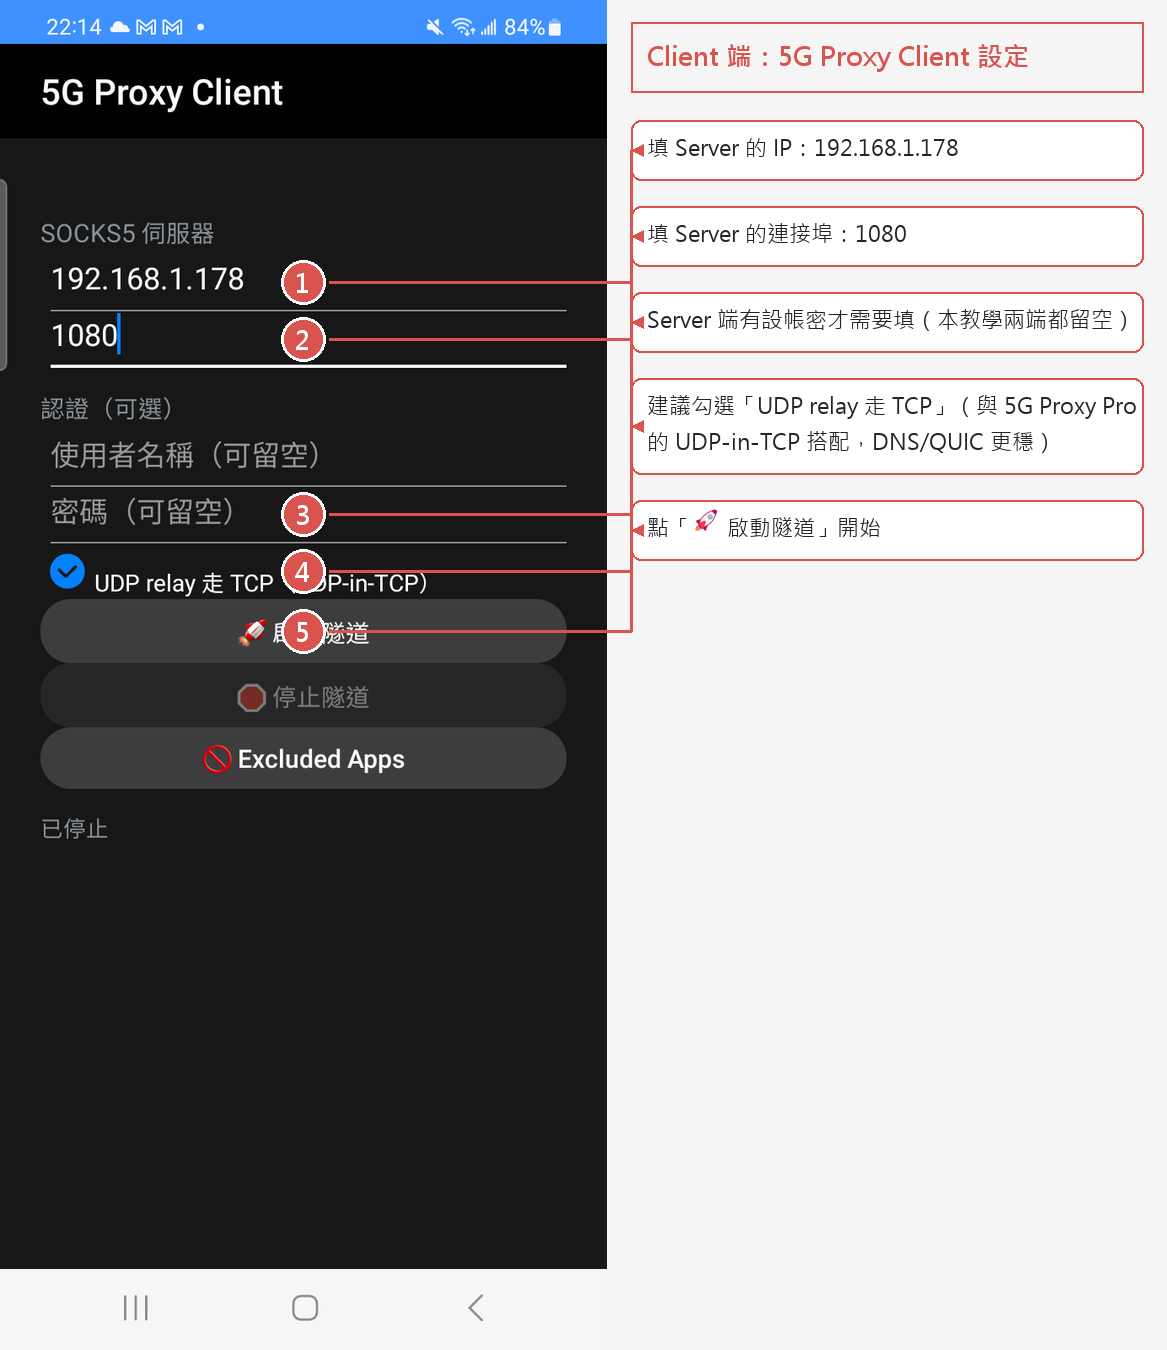
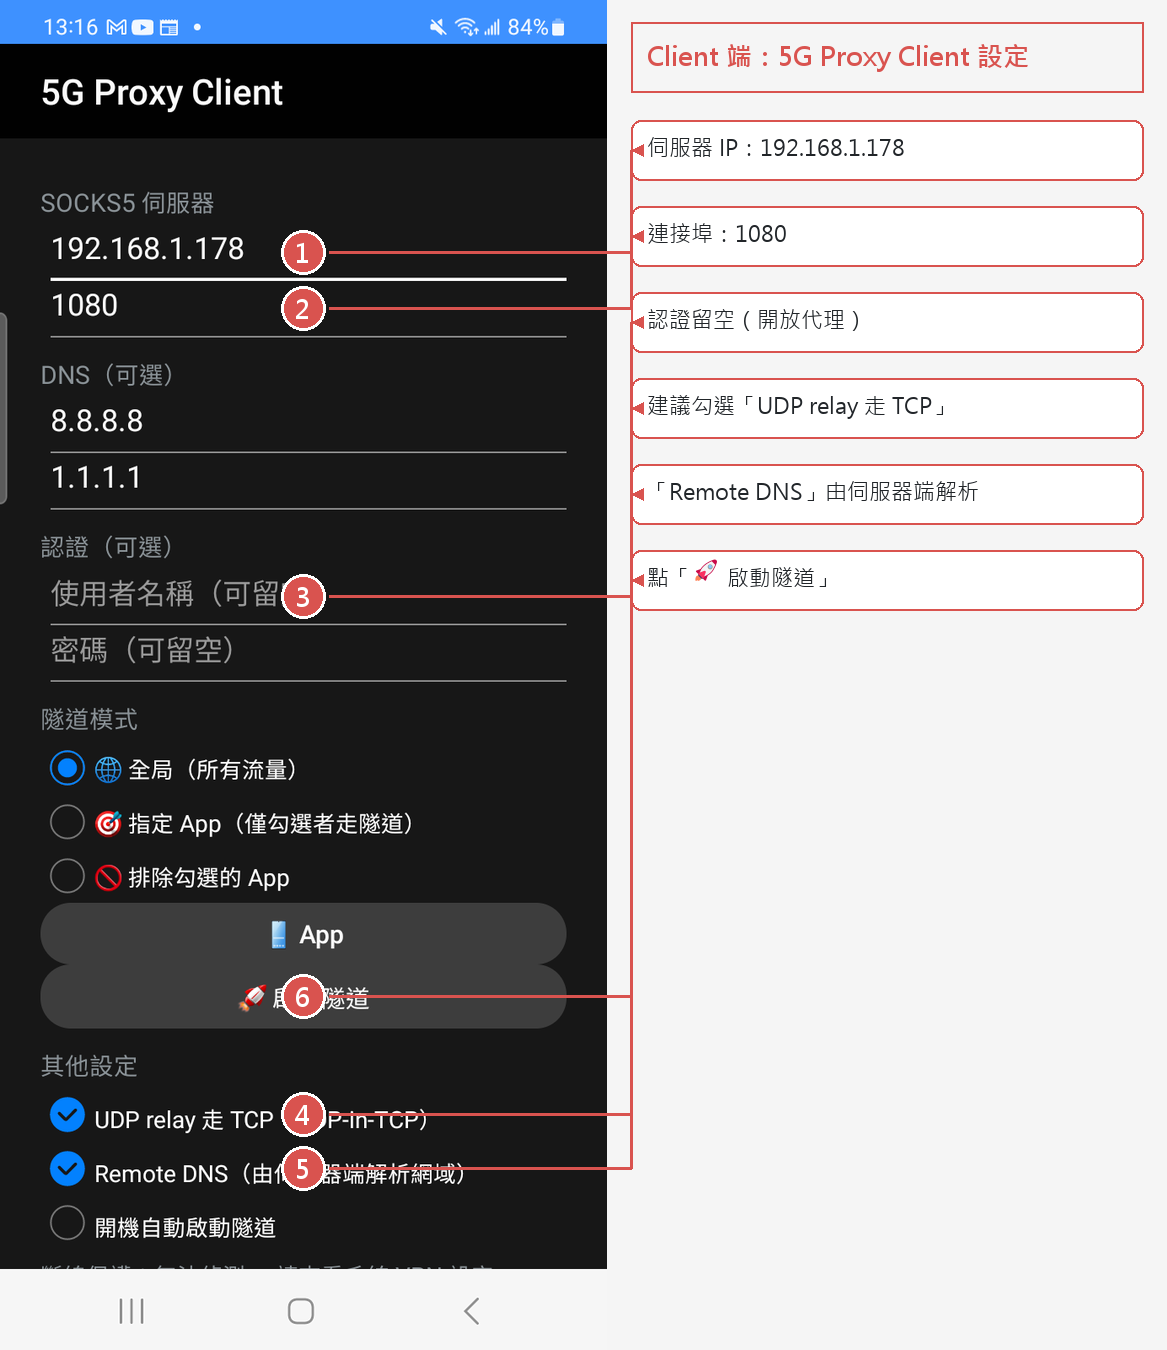
docs: update tutorial + screenshots for Pro 1.6.3 / Client 1.5.1

diff --git a/docs/annotate_shots.py b/docs/annotate_shots.py
@@ -29,8 +29,6 @@ WHITE = (255, 255, 255)
 DARK = (33, 37, 41)
 STRIP_BG = (250, 250, 250)
 
-# token 化：CJK/全形字元一個一個；連續英數（含 . : / ( ) + - _）不切斷；
-# 空白可斷行；其餘（含 emoji）單一字元
 TOKEN_RE = re.compile(
     r"[\u3000-\u303f\u3040-\u30ff\u3400-\u4dbf\u4e00-\u9fff\uff00-\uffef]"
     r"|[A-Za-z0-9][A-Za-z0-9_.:/()+\-]*"
@@ -47,10 +45,9 @@ def is_emoji(ch):
 
 
 def draw_mixed(d, xy, text, font, ef):
-    """逐段繪製：emoji 用彩色 emoji 字型，其餘用中文字型"""
     x, y = xy
     seg = ""
-    mode = None  # None=一般, 'e'=emoji
+    mode = None
     for ch in text:
         m = "e" if is_emoji(ch) else None
         if m != mode and seg:
@@ -72,7 +69,6 @@ def draw_mixed(d, xy, text, font, ef):
 
 
 def wrap_text(text, max_w, font, ef):
-    """依像素寬度換行；token 不可被切斷；空格優先作為斷點"""
     tokens = TOKEN_RE.findall(text)
     lines, cur, cur_w = [], "", 0.0
     for tok in tokens:
@@ -96,7 +92,6 @@ def wrap_text(text, max_w, font, ef):
 
 
 def annotate(src, dst, items, scale_h=1350, strip_w=560, title=None):
-    """items: list of (num, img_x, img_y, text)"""
     im = Image.open(src).convert("RGB")
     w, h = im.size
     scale = scale_h / h
@@ -142,7 +137,6 @@ def annotate(src, dst, items, scale_h=1350, strip_w=560, title=None):
         for ln in lines:
             draw_mixed(d, (bx + 16, ty), ln, fr, ef)
             ty += line_h
-        # 折線箭頭：號碼圓 → 框左側
         sx, sy = bx, by + bh // 2
         d.line([cx + r + 4, cy, (sx + bx) // 2, cy, (sx + bx) // 2, sy, sx, sy],
                fill=RED, width=3)
@@ -151,21 +145,45 @@ def annotate(src, dst, items, scale_h=1350, strip_w=560, title=None):
 
     canvas.save(dst)
     print(("OVERFLOW!" if overflow else "OK   "), os.path.basename(dst),
-          canvas.size, "| lines:", [len(wrap_text(t, box_w, fr, ef)) for _, _, _, t in items])
+          canvas.size)
 
 
 def main():
     S = SHOTS
 
+    # --- Server 端 ---
+
     annotate(
         os.path.join(S, "server_initial.png"),
         os.path.join(S, "server_initial_annotated.png"),
         [
-            (1, 735, 777, "檢查「代理端口」，改成要對外提供的埠（預設 1080）"),
-            (2, 712, 946, "帳號密碼留空 = 開放代理；兩欄都填才會啟用認證"),
-            (3, 610, 1299, "點「🚀 一鍵開啟 5G 代理」啟動服務"),
+            (1, 735, 777, "代理端口（預設 1080）"),
+            (2, 706, 956, "使用者/密碼留空 = 開放代理；兩欄都填才啟用認證"),
+            (3, 610, 1299, "點「🚀 一鍵開啟 5G 代理」"),
+            (4, 610, 2075, "新增「📈 流量」即時統計（上/下傳速率與總量）"),
         ],
         title="Server 端：5G Proxy Pro 啟動",
+    )
+
+    annotate(
+        os.path.join(S, "server_battery.png"),
+        os.path.join(S, "server_battery_annotated.png"),
+        [
+            (1, 609, 926, "小米/POCO 用戶的電池最佳化提醒"),
+            (2, 253, 1748, "「仍然繼續」= 不加白名單也照樣啟動"),
+            (3, 966, 1748, "「前往設定」= 關閉「5G 智慧省電」以穩定鎖定 5G"),
+        ],
+        title="Server 端：電池最佳化提醒",
+    )
+
+    annotate(
+        os.path.join(S, "server_notifperm.png"),
+        os.path.join(S, "server_notifperm_annotated.png"),
+        [
+            (1, 609, 1894, "Android 13+ 首次啟動會要求通知權限"),
+            (2, 609, 2164, "點「允許」前景服務通知才能顯示"),
+        ],
+        title="Server 端：通知權限",
     )
 
     annotate(
@@ -173,22 +191,45 @@ def main():
         os.path.join(S, "server_running_annotated.png"),
         [
             (1, 610, 593, "✅ 5G Proxy Running = 代理已運行"),
-            (2, 610, 1497, "記下「Wi-Fi 代理」的 IP:Port → 192.168.1.178:1080（Client 要輸入這個）"),
-            (3, 610, 1770, "「5G 行動 IP」= 49.215.85.39（驗證用：其他裝置出口 IP 應等於它）"),
-            (4, 610, 1293, "停止代理請按「🛑 停止代理服務」"),
+            (2, 610, 1624, "記下「Wi-Fi 代理」IP:Port → 192.168.1.178:1080"),
+            (3, 610, 1897, "「5G 行動 IP」= 出口 IP（其他裝置走代理後應等於它）"),
+            (4, 610, 2069, "即時流量統計（上/下傳速率與總量）"),
+            (5, 610, 1293, "「🛑 停止代理服務」關閉"),
         ],
         title="Server 端：運行中，取得 IP:Port",
+    )
+
+    annotate(
+        os.path.join(S, "server_notification.png"),
+        os.path.join(S, "server_notification_annotated.png"),
+        [
+            (1, 603, 977, "「已鎖定 5G - 監聽 Port 1080」= 已鎖定 5G 並監聽"),
+        ],
+        title="Server 端：前景服務通知",
+    )
+
+    # --- Client 端 ---
+
+    annotate(
+        os.path.join(S, "client_notifperm.png"),
+        os.path.join(S, "client_notifperm_annotated.png"),
+        [
+            (1, 360, 1195, "Android 13+ 首次啟動要求通知權限"),
+            (2, 360, 1284, "點「允許」"),
+        ],
+        title="Client 端：通知權限",
     )
 
     annotate(
         os.path.join(S, "client_filled.png"),
         os.path.join(S, "client_filled_annotated.png"),
         [
-            (1, 360, 335, "填 Server 的 IP：192.168.1.178"),
-            (2, 360, 402, "填 Server 的連接埠：1080"),
-            (3, 360, 610, "Server 端有設帳密才需要填（本教學兩端都留空）"),
-            (4, 360, 677, "建議勾選「UDP relay 走 TCP」（與 5G Proxy Pro 的 UDP-in-TCP 搭配，DNS/QUIC 更穩）"),
-            (5, 360, 748, "點「🚀 啟動隧道」開始"),
+            (1, 360, 299, "伺服器 IP：192.168.1.178"),
+            (2, 360, 366, "連接埠：1080"),
+            (3, 360, 707, "認證留空（開放代理）"),
+            (4, 360, 1321, "建議勾選「UDP relay 走 TCP」"),
+            (5, 360, 1385, "「Remote DNS」由伺服器端解析"),
+            (6, 360, 1181, "點「🚀 啟動隧道」"),
         ],
         title="Client 端：5G Proxy Client 設定",
     )
@@ -197,8 +238,8 @@ def main():
         os.path.join(S, "client_vpn.png"),
         os.path.join(S, "client_vpn_annotated.png"),
         [
-            (1, 360, 780, "第一次啟動會出現系統「連線要求」對話框"),
-            (2, 506, 1396, "點「確定」允許 VPN（拒絕則無法建立隧道）"),
+            (1, 360, 980, "首次啟動出現系統「連線要求」"),
+            (2, 506, 1396, "點「確定」允許 VPN"),
         ],
         title="Client 端：VPN 授權",
     )
@@ -207,29 +248,10 @@ def main():
         os.path.join(S, "client_running.png"),
         os.path.join(S, "client_running_annotated.png"),
         [
-            (1, 360, 968, "「✅ 隧道已啟用 (192.168.1.178:1080)」= 成功"),
-            (2, 360, 90, "狀態列出現鑰匙圖示（VPN 作用中）"),
-            (3, 360, 824, "「🛑 停止隧道」可隨時關閉"),
+            (1, 360, 1181, "按鈕變為「🛑 停止隧道」= 隧道已啟用"),
+            (2, 360, 1321, "執行中設定欄位鎖定"),
         ],
         title="Client 端：隧道已啟用",
-    )
-
-    annotate(
-        os.path.join(S, "client_notification.png"),
-        os.path.join(S, "client_notification_annotated.png"),
-        [
-            (1, 360, 420, "通知列常駐「5G Proxy Client / Tunnel active」前景服務通知"),
-        ],
-        title="Client 端：前景服務通知",
-    )
-
-    annotate(
-        os.path.join(S, "server_notification.png"),
-        os.path.join(S, "server_notification_annotated.png"),
-        [
-            (1, 610, 420, "通知顯示「Locked 5G - Listening Port 1080」：已鎖定 5G 並監聽"),
-        ],
-        title="Server 端：前景服務通知",
     )
 
 

diff --git a/TUTORIAL.md b/TUTORIAL.md
@@ -14,7 +14,7 @@
 
 ### 整體架構
 
-![整體架構](docs/figures/fig1_architecture.png)
+[整體架構](docs/figures/fig1_architecture.png)
 
 流量路徑：
 
@@ -42,32 +42,50 @@
 
 ### 3.1 開啟 App，確認連接埠
 
-![Server 初始畫面](docs/shots/server_initial_annotated.png)
+[Server 初始畫面](docs/shots/server_initial_annotated.png)
 
 1. **代理端口**：設為要對外提供的埠（預設 `1080`；本教學沿用 `1080`）
 2. **使用者 / 密碼**：兩欄都留空 = 開放代理；**兩欄都填**才會啟用認證（RFC 1929）
 3. 點 **「🚀 一鍵開啟 5G 代理」**
 
-> 首次啟動（Android 13+）會要求**通知權限**，請允許，前景服務通知才能正常顯示。
-> 另外依品牌提示（小米/三星/OPPO/Vivo）加入**電池最佳化白名單**，避免系統在背景殺掉 App 導致 5G 掉線。
+> 1.6.3 版新增 **「📈 流量」即時統計卡片**（上/下傳速率與總量），以及下方的 **「🧪 自我檢測」** 按鈕，可隨時驗證 SOCKS5 服務是否正常。
 
-### 3.2 啟動成功後，取得 Server 的 IP 與 Port
+### 3.2 首次啟動的兩個提醒視窗
 
-![Server 運行中](docs/shots/server_running_annotated.png)
+> 首次安裝後第一次點「一鍵開啟」會依序跳出兩個視窗；之後就不會再出現（除非重裝）。
+
+**① 電池最佳化提醒（小米/POCO 用戶）**
+
+[電池最佳化提醒](docs/shots/server_battery_annotated.png)
+
+- 點 **「仍然繼續」** 直接啟動（不加入白名單也能跑，但背景較可能被系統切斷）
+- 或點 **「前往設定」** → 關閉【5G 智慧省電】、把 App 省電策略設為「無限制」，能更穩定鎖定 5G
+
+**② 通知權限（Android 13+）**
+
+[通知權限](docs/shots/server_notifperm_annotated.png)
+
+- 點 **「允許」**，前景服務通知才能正常顯示。
+
+### 3.3 啟動成功後，取得 Server 的 IP 與 Port
+
+[Server 運行中](docs/shots/server_running_annotated.png)
 
 啟動後畫面會顯示（3 秒後自動刷新）：
 
 - **✅ 5G Proxy Running** → 代理已運行
 - **📶 Wi-Fi 代理: `192.168.1.178:1080`** ← **記下這個 IP:Port**（Client 端要輸入的值）
-- **📲 5G 行動 IP: `49.215.85.39`** ← 驗證用：所有經代理出去的流量，出口 IP 都應等於它
+- **📲 5G 行動 IP: `49.215.24.54`** ← 驗證用：所有經代理出去的流量，出口 IP 都應等於它
+  - 註：5G 行動 IP 是電信商 NAT 動態分配，隨時可能變動，以你裝置上實際顯示為準。
+- **📈 流量**：上/下傳即時速率與累計總量
 
 > 監聽器只綁定 Wi-Fi / 熱點 / USB 分享等 LAN 介面，**不會暴露在行動網路介面上**。
 
-### 3.3 Server 端前景服務通知
+### 3.4 Server 端前景服務通知
 
-![Server 通知](docs/shots/server_notification_annotated.png)
+[Server 通知](docs/shots/server_notification_annotated.png)
 
-通知列會常駐 **「5G SOCKS5 Proxying / Locked 5G - Listening Port 1080」**，確認代理確實在監聽。
+通知列會常駐 **「✅ 5G Proxy Running / 已鎖定 5G - 監聽 Port 1080」**，確認代理確實在監聽。
 
 ---
 
@@ -75,7 +93,7 @@
 
 ### 4.1 填入 Server 的 IP 與 Port
 
-![Client 設定畫面](docs/shots/client_filled_annotated.png)
+[Client 設定畫面](docs/shots/client_filled_annotated.png)
 
 | 欄位 | 填入 | 說明 |
 |---|---|---|
@@ -83,12 +101,22 @@
 | **連接埠** | `1080` | Server 端「Wi-Fi 代理」顯示的 Port |
 | 使用者名稱 / 密碼 | （留空） | 只有 Server 端有設帳密才需要填 |
 | **UDP relay 走 TCP** | 勾選 | 建議勾選（與 5G Proxy Pro 搭配，DNS/QUIC 更穩） |
+| **Remote DNS** | 勾選 | 由伺服器端解析網域（預設已勾） |
 
+> 1.5.1 版新增：**DNS（可選）**、**隧道模式**（全局 / 指定 App / 排除 App 三選）、**Remote DNS**、**斷線保護（Kill Switch）**。
 > 伺服器位址會在建立 VPN **之前**解析，避免自己的 DNS 查詢被隧道捕捉。
 
-### 4.2 點「🚀 啟動隧道」→ 允許 VPN
+### 4.2 點「🚀 啟動隧道」→ 允許通知與 VPN
 
-![VPN 授權](docs/shots/client_vpn_annotated.png)
+**① 通知權限（Android 13+）**
+
+[Client 通知權限](docs/shots/client_notifperm_annotated.png)
+
+點 **「允許」**。
+
+**② VPN 連線要求**
+
+[VPN 授權](docs/shots/client_vpn_annotated.png)
 
 第一次啟動會出現系統 **「連線要求」** 對話框：
 
@@ -98,13 +126,13 @@
 
 ### 4.3 啟動成功
 
-![Client 運行中](docs/shots/client_running_annotated.png)
+[Client 運行中](docs/shots/client_running_annotated.png)
 
-- 畫面顯示 **「✅ 隧道已啟用 (192.168.1.178:1080)」** → 成功
+- 按鈕變為 **「🛑 停止隧道」**、設定欄位鎖定 → 隧道已啟用
 - 狀態列出現 **鑰匙圖示**（VPN 作用中）
-- 通知列常駐 **「5G Proxy Client / Tunnel active」**：
 
-![Client 通知](docs/shots/client_notification_annotated.png)
+> 註：1.5.1 版不再顯示「✅ 隧道已啟用」那行文字，改以「停止隧道」按鈕 + 欄位鎖定表示運行中。
+> 前景服務通知改用低重要性的「隧道狀態」頻道，即時顯示 ↑/↓ bytes 與 TCP/UDP session 數；在部分機型（如三星）可能被折疊進「背景執行」區，展開通知列即可看到。
 
 > 停止方式：回到 App 點「🛑 停止隧道」，或從系統設定撤銷 VPN。
 
@@ -112,7 +140,7 @@
 
 ## 5. 步驟 3：驗證流量真的走 5G
 
-驗證原理：Server 端「5G 行動 IP」= 49.215.85.39，任何**經代理出去的流量**，出口 IP 都應等於它。
+驗證原理：Server 端「5G 行動 IP」= 49.215.24.54，任何**經代理出去的流量**，出口 IP 都應等於它。
 
 ### 方法 A：PC 上透過代理存取（本教學實測）
 
@@ -123,7 +151,7 @@ curl.exe -s --proxy socks5h://192.168.1.178:1080 https://api.ipify.org
 本教學實際執行結果：
 
 ```text
-49.215.85.39        <- 與 Server 端「5G 行動 IP」完全一致（成功）
+49.215.24.54        <- 與 Server 端「5G 行動 IP」完全一致（成功）
 ```
 
 ### 方法 B：Client 手機本機驗證（隧道內流量）
@@ -131,13 +159,13 @@ curl.exe -s --proxy socks5h://192.168.1.178:1080 https://api.ipify.org
 在 Client 手機（透過 adb）執行：
 
 ```bash
-adb -s 192.168.1.192:39013 shell "curl -s https://api.ipify.org"
+adb -s 192.168.1.192:45643 shell "curl -s https://api.ipify.org"
 ```
 
 本教學實際執行結果：
 
 ```text
-49.215.85.39        <- Client 手機的出口 IP = Server 的 5G IP，證明流量全部走隧道（成功）
+49.215.24.54        <- Client 手機的出口 IP = Server 的 5G IP，證明流量全部走隧道（成功）
 ```
 
 ### 方法 C：其他驗證
@@ -147,7 +175,7 @@ adb -s 192.168.1.192:39013 shell "curl -s https://api.ipify.org"
 | **測速** | `curl.exe -o NUL --proxy socks5h://192.168.1.178:1080 https://speed.cloudflare.com/__down?bytes=100000000` | 有吞吐量即代表 CONNECT 轉發正常 |
 | **DNS 穿透** | 代理為 `socks5h`（H 代表 DNS 由代理解析） | 任何網域都可解析 |
 | **UDP/QUIC** | Client 手機用 Chrome（支援 QUIC）開 YouTube | 能播放 = UDP relay（UDP-in-TCP）正常 |
-| **排除 App** | Client 端「🚫 Excluded Apps」勾選某 App | 該 App 出口 IP 為 Wi-Fi 線路（如 PC 直連的 59.126.201.28），其餘仍走 5G |
+| **排除 App** | Client 端「🚫 Excluded Apps」勾選某 App | 該 App 出口 IP 為 Wi-Fi 線路，其餘仍走 5G |
 
 ---
 
@@ -156,7 +184,7 @@ adb -s 192.168.1.192:39013 shell "curl -s https://api.ipify.org"
 | 症狀 | 原因 | 解決方法 |
 |---|---|---|
 | Client 一直「正在解析伺服器位址…」 | 伺服器 IP/Port 填錯 | 回 Server 端重新確認「Wi-Fi 代理」顯示的值 |
-| 連到 Server 但 SOCKS5 握手無回應 | 填到了 **ADB 埠**（35577/39013）而非代理埠 | 代理埠以 App「Wi-Fi 代理」顯示為準（預設 1080） |
+| 連到 Server 但 SOCKS5 握手無回應 | 填到了 **ADB 埠**（41723/45643）而非代理埠 | 代理埠以 App「Wi-Fi 代理」顯示為準（預設 1080） |
 | Server 顯示「❌ Proxy Failed to Start」 | 手機沒有 LAN 介面或 5G 訊號 | 確認 Wi-Fi 已連線、SIM 卡有訊號 |
 | Server 的 5G 常掉線 | 電池最佳化把 App 掛在背景 | 依品牌設定加入電池白名單（小米關閉「5G 電池省電模式」等） |
 | Client 按啟動沒反應 / Toast 顯示輸入錯誤 | 伺服器位址或埠格式不對 | 確認 IP 格式、Port 在 1~65535 之間 |
@@ -171,12 +199,12 @@ adb -s 192.168.1.192:39013 shell "curl -s https://api.ipify.org"
 
 ```powershell
 # Server 手機（小米）
-adb connect 192.168.1.178:35577
-adb -s 192.168.1.178:35577 shell am start -n com.tokyoxpa3.androidproxy/.DebugActivity
+adb connect 192.168.1.178:41723
+adb -s 192.168.1.178:41723 shell am start -n com.tokyoxpa3.androidproxy/.DebugActivity
 
 # Client 手機（三星）
-adb connect 192.168.1.192:39013
-adb -s 192.168.1.192:39013 shell am start -n com.tokyoxpa3.socksclient/.MainActivity
+adb connect 192.168.1.192:45643
+adb -s 192.168.1.192:45643 shell am start -n com.tokyoxpa3.socksclient/.MainActivity
 
 # 截圖
 adb -s <serial> shell screencap -p /sdcard/s.png
